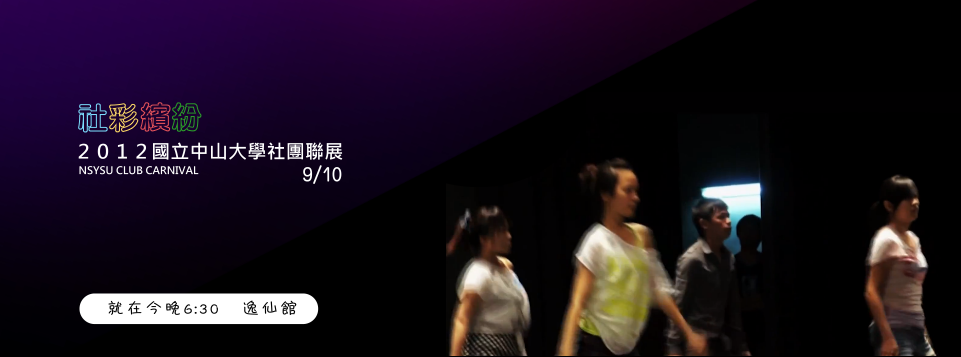
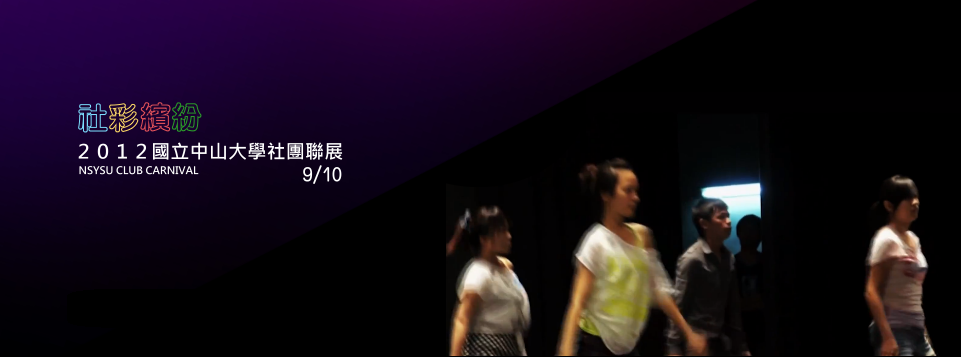
news多一個學生會的形象影片大圖

Changed region(s): [[0.0624, 0.8011, 0.3434, 0.9244]]

diff --git a/news/page/page04.htm b/news/page/page04.htm
@@ -17,10 +17,10 @@ function clickSwapImg() {}
 
 <table border="0" width="961" height="357" cellspacing="0" cellpadding="0">
 	<tr>
-		<td background="jpg/bg4.png" width="961" height="357">
-		<div style="position: absolute; width: 100px; height: 100px; z-index: 1; left: 690px; top: 184px" id="layer1">
-			<a onmouseover="var img=document['fpAnimswapImgFP1'];img.imgRolln=img.src;img.src=img.lowsrc?img.lowsrc:img.getAttribute?img.getAttribute('lowsrc'):img.src;" onmouseout="document['fpAnimswapImgFP1'].src=document['fpAnimswapImgFP1'].imgRolln" target="_blank" href="https://www.facebook.com/events/222208907906836/">
-			<img border="0" src="jpg/bbb.png" width="199" height="47" id="fpAnimswapImgFP1" name="fpAnimswapImgFP1" dynamicanimation="fpAnimswapImgFP1" lowsrc="jpg/bbb2.png"></a></div>
+		<td background="jpg/bg5.png" width="961" height="357">
+		<div style="position: absolute; width: 100px; height: 31px; z-index: 2; left: 17px; top: 316px" id="layer3">
+			<a onmouseover="var img=document['fpAnimswapImgFP1'];img.imgRolln=img.src;img.src=img.lowsrc?img.lowsrc:img.getAttribute?img.getAttribute('lowsrc'):img.src;" onmouseout="document['fpAnimswapImgFP1'].src=document['fpAnimswapImgFP1'].imgRolln" target="_blank" href="https://www.youtube.com/watch?v=XHT-u1Z73tU&feature=player_embedded">
+			<img border="0" src="jpg/bbbb2.png" width="188" height="30" id="fpAnimswapImgFP1" name="fpAnimswapImgFP1" dynamicanimation="fpAnimswapImgFP1" lowsrc="jpg/bbbb.png"></a></div>
 		<p>&nbsp;</td>
 	</tr>
 </table>

diff --git a/news/page/page01.htm b/news/page/page01.htm
@@ -17,10 +17,10 @@ function clickSwapImg() {}
 
 <table border="0" width="961" height="357" cellspacing="0" cellpadding="0">
 	<tr>
-		<td background="jpg/bg1.png" width="961" height="357">
-		<div style="position: absolute; width: 100px; height: 31px; z-index: 2; left: 76px; top: 207px" id="layer3">
-			<a target="_blank" href="http://www.youtube.com/watch?v=b0iYD3NtaJg" onmouseover="var img=document['fpAnimswapImgFP1'];img.imgRolln=img.src;img.src=img.lowsrc?img.lowsrc:img.getAttribute?img.getAttribute('lowsrc'):img.src;" onmouseout="document['fpAnimswapImgFP1'].src=document['fpAnimswapImgFP1'].imgRolln">
-			<img border="0" src="jpg/bb.png" width="133" height="47" id="fpAnimswapImgFP1" name="fpAnimswapImgFP1" dynamicanimation="fpAnimswapImgFP1" lowsrc="jpg/bb2.png"></a></div>
+		<td background="jpg/bg4.png" width="961" height="357">
+		<div style="position: absolute; width: 100px; height: 100px; z-index: 1; left: 690px; top: 184px" id="layer1">
+			<a onmouseover="var img=document['fpAnimswapImgFP1'];img.imgRolln=img.src;img.src=img.lowsrc?img.lowsrc:img.getAttribute?img.getAttribute('lowsrc'):img.src;" onmouseout="document['fpAnimswapImgFP1'].src=document['fpAnimswapImgFP1'].imgRolln" target="_blank" href="https://www.facebook.com/events/222208907906836/">
+			<img border="0" src="jpg/bbb.png" width="199" height="47" id="fpAnimswapImgFP1" name="fpAnimswapImgFP1" dynamicanimation="fpAnimswapImgFP1" lowsrc="jpg/bbb2.png"></a></div>
 		<p>&nbsp;</td>
 	</tr>
 </table>
